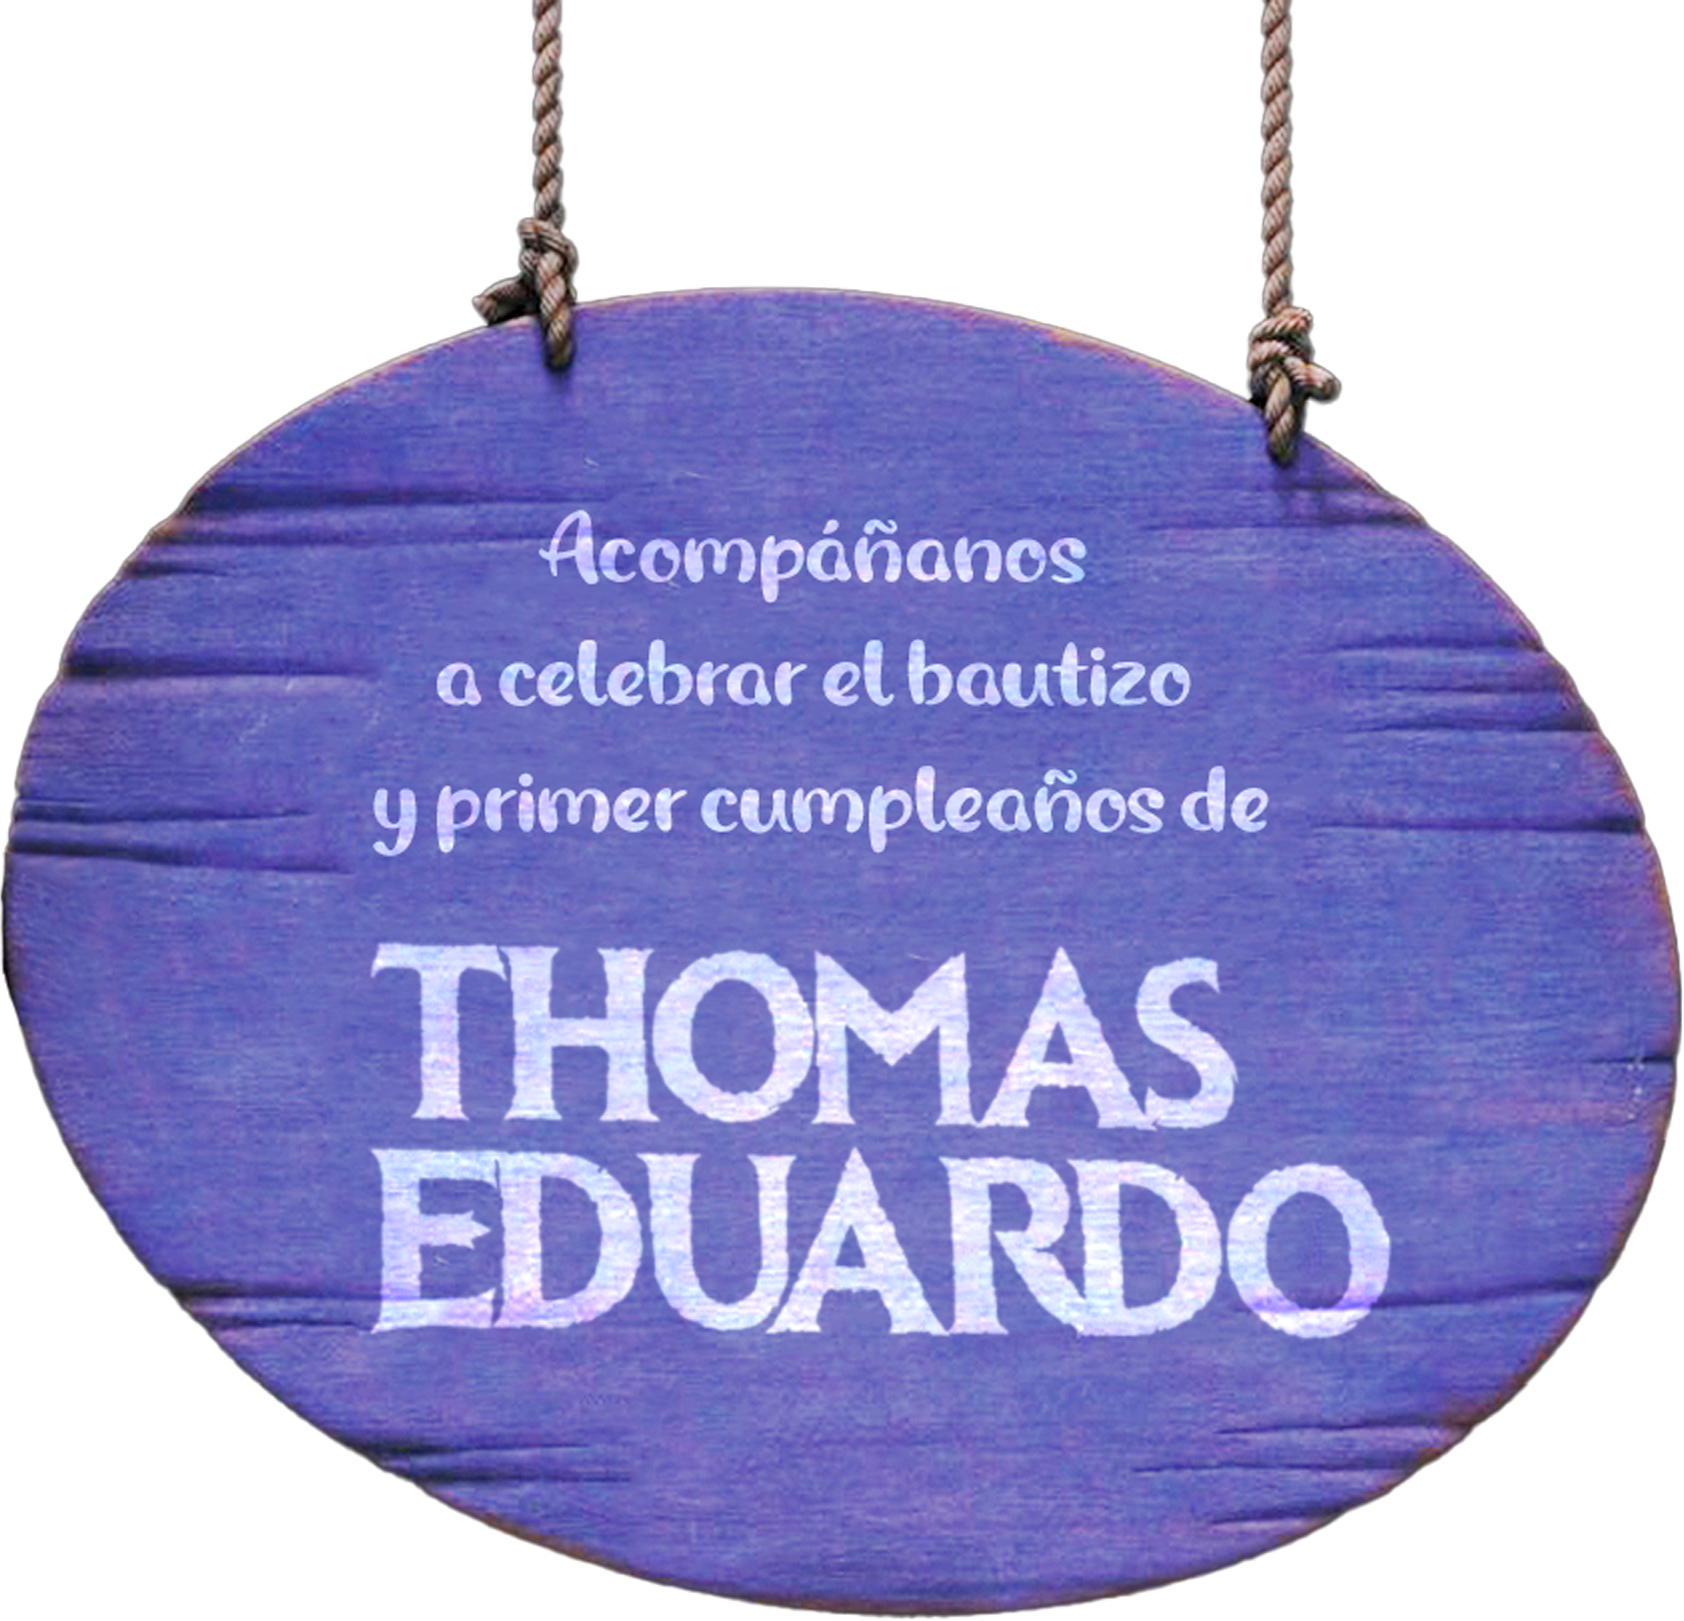
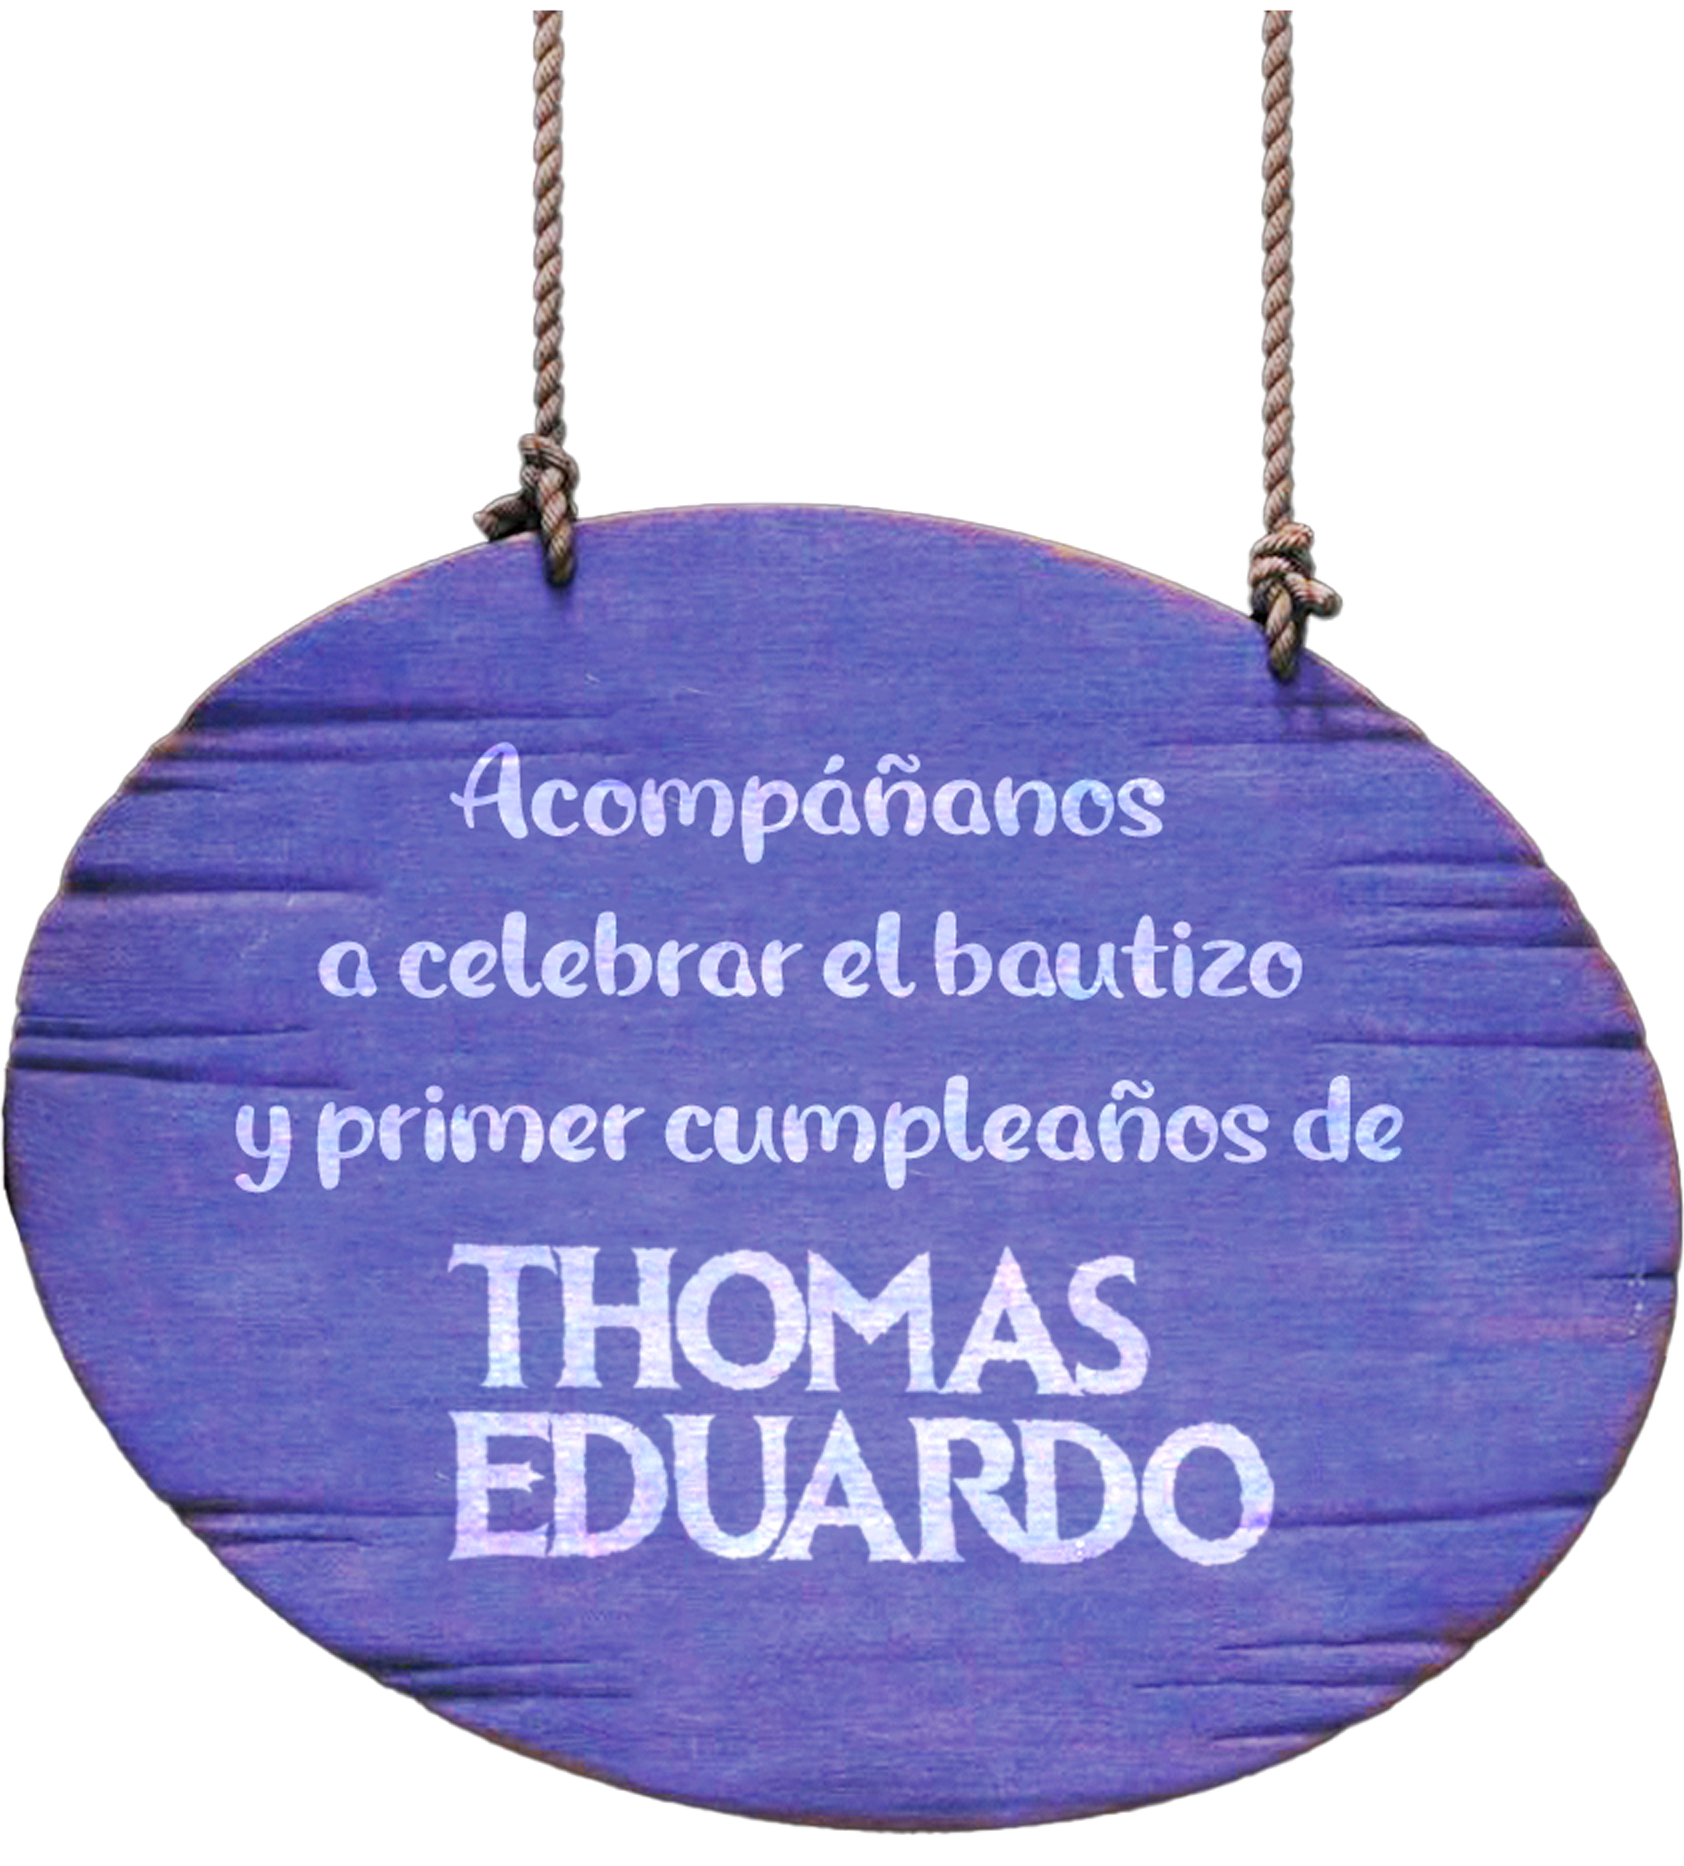
ajuste lettering

Changed region(s): [[0.0, 0.0, 1.0, 0.8637], [0.2162, 0.8945, 0.8646, 1.0], [0.8646, 0.8637, 0.8955, 0.8945]]

diff --git a/css/main.css b/css/main.css
@@ -243,7 +243,7 @@ textarea {
 }
 #details{
     position: absolute;
-    right: 5%;
+    left: 5%;
     top: 4%;
     width: 90%;
     border-radius: 30px;
@@ -307,7 +307,7 @@ textarea {
 }
 
 .olaf {
-    bottom: 5%;
+    bottom: 3%;
     position: absolute;
     width: 70%;
     right: 17%;
@@ -319,11 +319,11 @@ textarea {
    ========================================================================== */
 
 #bg-scene-1{ 
-    background: url('../img/scene_1/bg.jpg') no-repeat top / cover;
+    background: url('../img/scene_1/bg.jpg') no-repeat bottom / cover;
 }
 
 #bg-scene-2{
-    background: url('../img/scene_2/bg.jpg') no-repeat top / cover;
+    background: url('../img/scene_2/bg.jpg') no-repeat bottom / cover;
 }
 
 .bg_scene{
